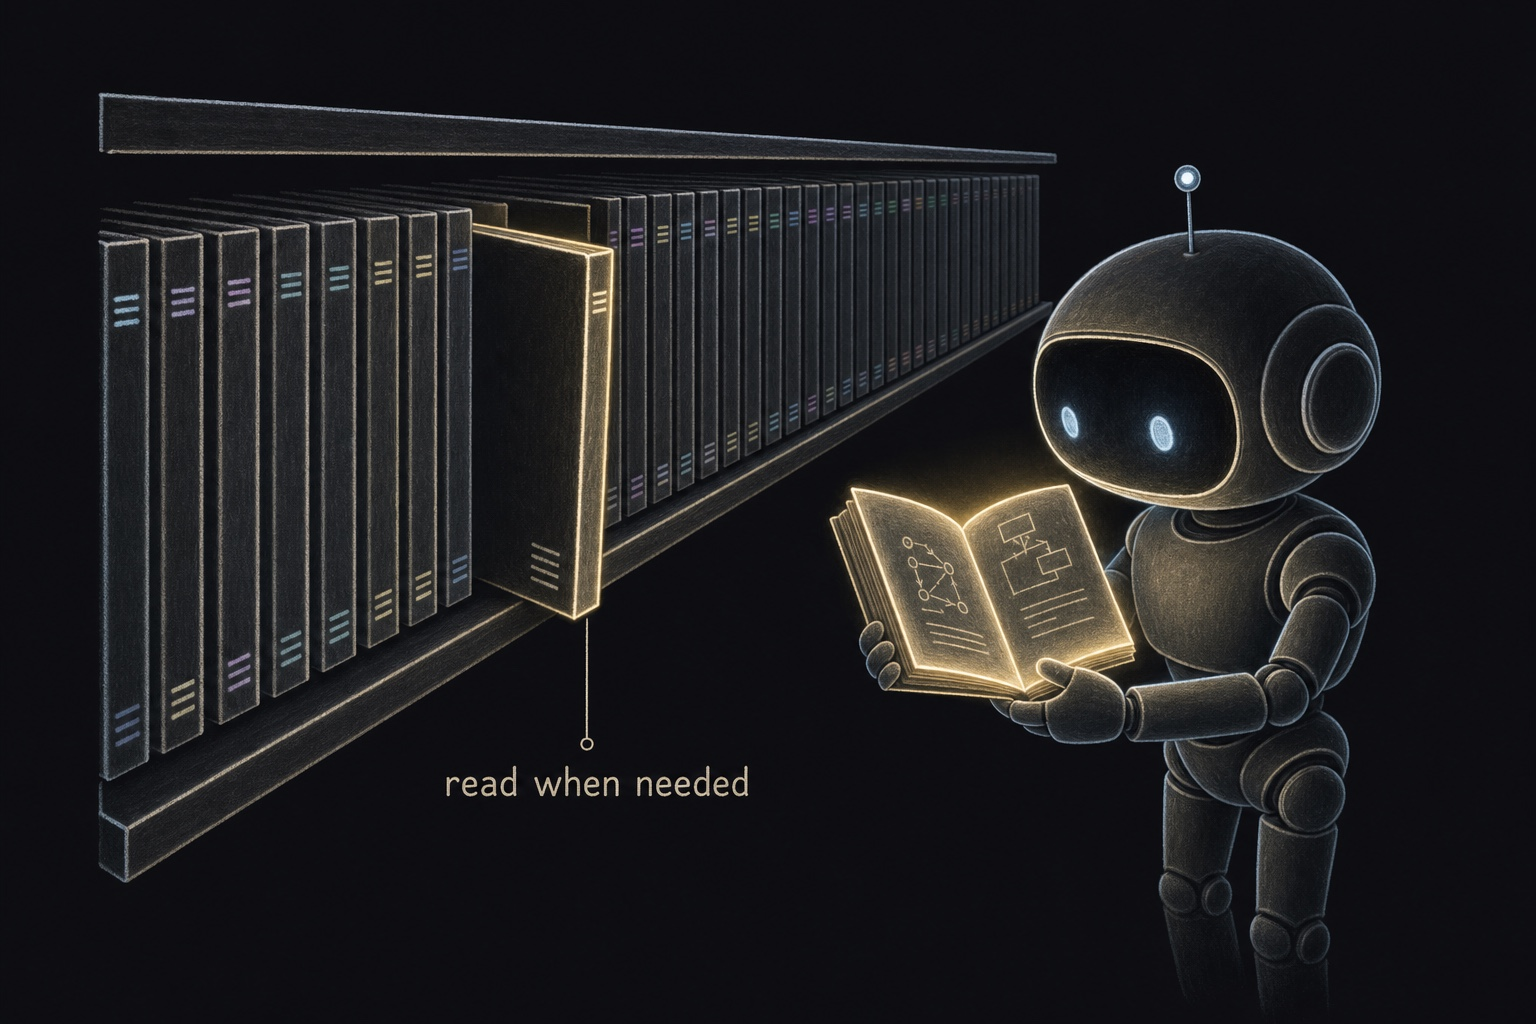
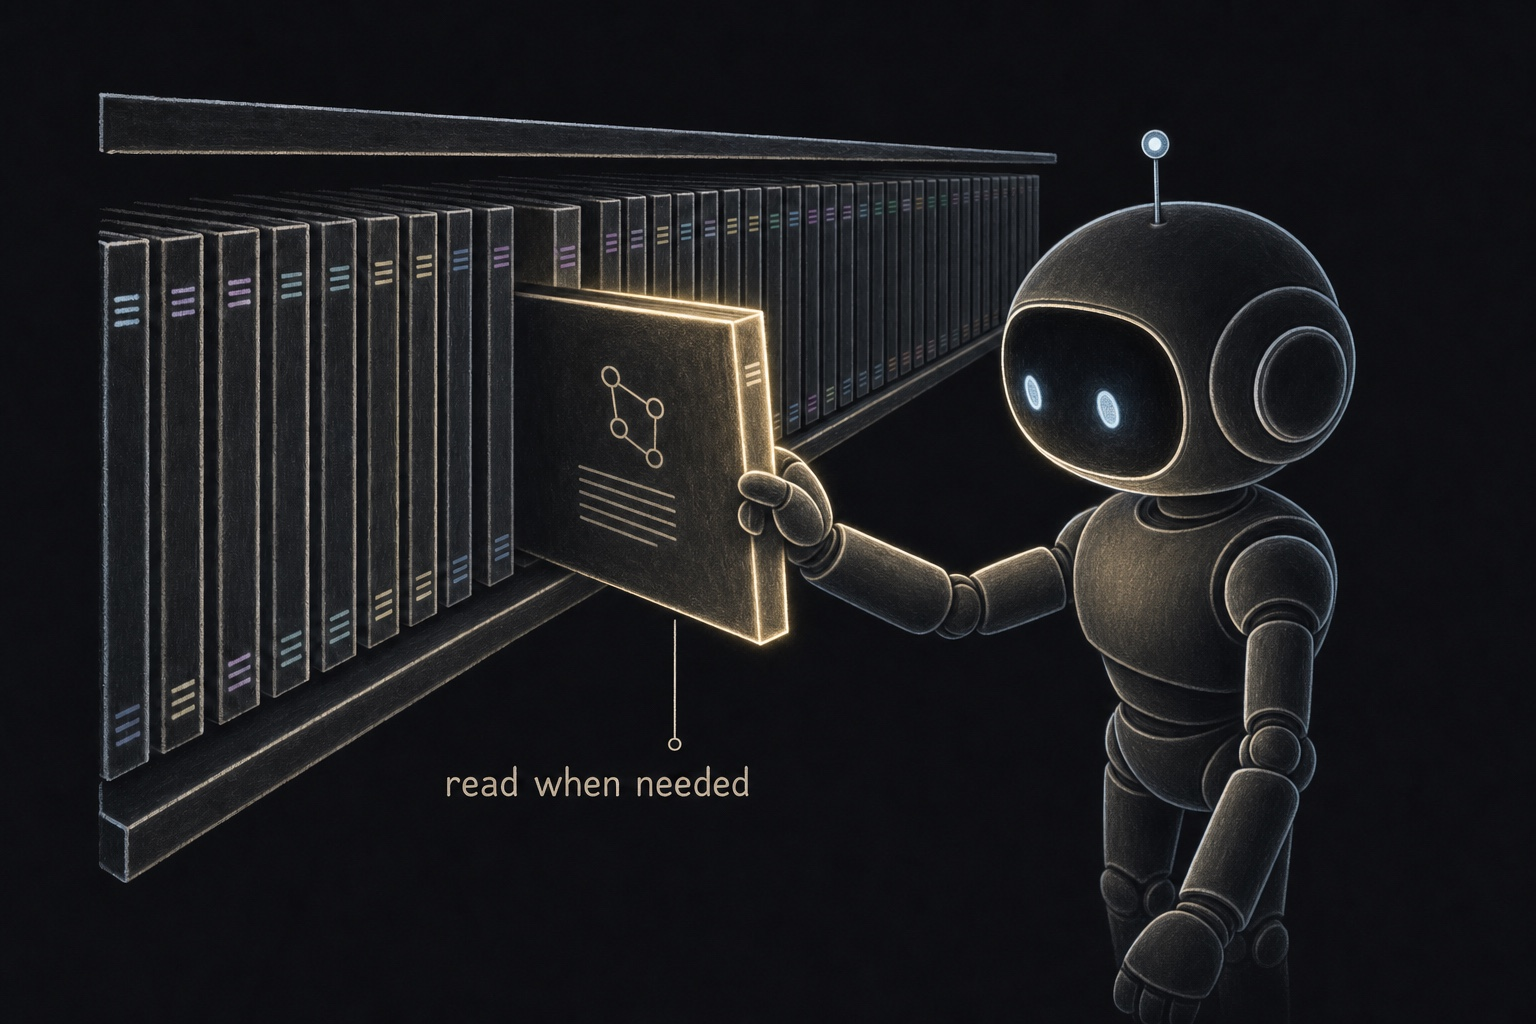
Ship the chosen plates; the harness schematic joins the series
Neo's picks from the A/B candidates land: subagents (exactly two arms),
skills (the manual caught mid-pull from the shelf), memory (one sensible
right-hinged vault door). The hand-drawn harness SVG retires with honor —
its screenshot went through the image model's edit endpoint and came back
redrawn in the series style with every label intact, so chapter 1's
schematic now matches the other nine and HarnessDiagram.svelte is deleted.

Changed region(s): [[0.2812, 0.125, 0.9062, 1.0], [0.2812, 0.75, 0.4688, 0.7812]]

diff --git a/src/lib/book/chapters/TheHarness.svelte b/src/lib/book/chapters/TheHarness.svelte
@@ -1,7 +1,3 @@
-<script lang="ts">
-	import HarnessDiagram from '../HarnessDiagram.svelte';
-</script>
-
 <img
 	class="plate"
 	src="/book/01-the-harness.jpg"
@@ -28,7 +24,14 @@
 	a measurement, not an illustration.
 </p>
 
-<HarnessDiagram />
+<img
+	class="plate"
+	src="/book/01-harness-schematic.jpg"
+	alt="Schematic of the loop: the context window — system prompt, skills, memory, files, plan, tools, messages — feeds the model; tool and subagent calls fan out and their results rejoin the context"
+	width="1536"
+	height="1024"
+	loading="lazy"
+/>
 
 <p class="live">
 	See it live: the events and context tabs to the left of this page — the loop as it actually ran,
